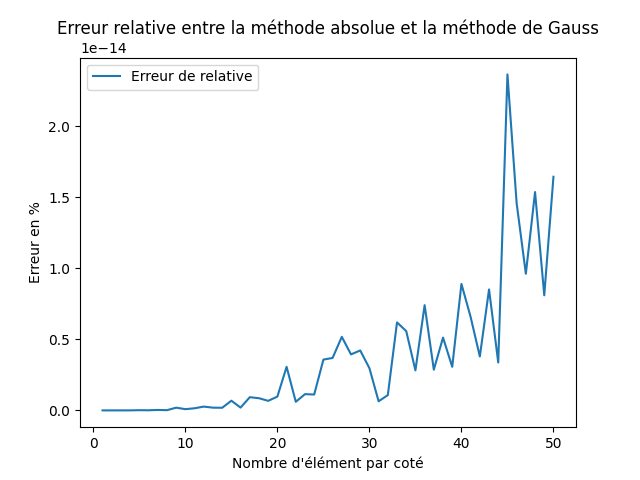
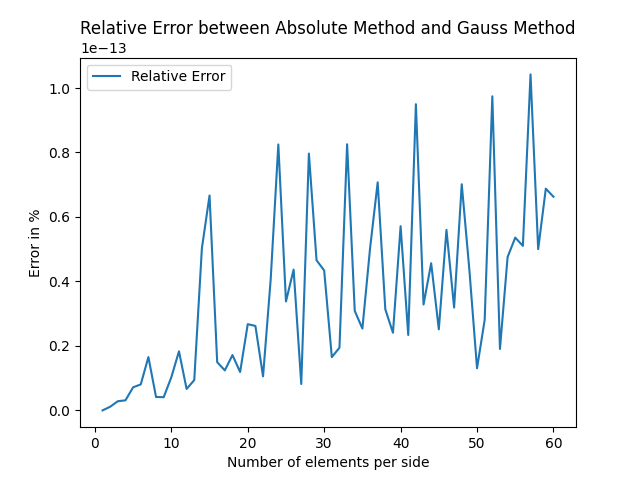
Add files via upload
Some scripts might not be working

diff --git a/BandedComparaison.py b/BandedComparaison.py
@@ -1,0 +1,83 @@
+# all of the imports
+
+import Polygones
+import matplotlib.pyplot as plt
+import numpy as np
+import time
+
+# Define the material properties and the number of elements per side
+E = 200e9
+nu = 0.3
+N = 10
+t = 0.1
+x = []
+time_convert_to_banded = []
+time_convert_to_banded_optimized = []
+time_calculate_bandwidth = []
+time_calculate_bandwidth_optimized = []
+
+for N in range(1, 51):
+    nodes, elements = Polygones.mesh(10, 10, N)  # create the mesh
+    boundary_conditions = Polygones.boundry('left', [0, 0], N)  # create the boundary conditions, the left side is fixed
+
+    F = np.zeros(2 * len(nodes), dtype=float)
+    F = Polygones.edgeForces(F, [1e10, 0], 'right', 10, N)  # apply the force on the right side 1e10 in the x direction
+    K = Polygones.global_stiffness_matrix(nodes, elements, E, nu, t)  # compute the global stiffness matrix
+    K, F = Polygones.apply_boundary_conditions(K, F, boundary_conditions)  # apply the boundary conditions
+
+    # Measure time for calculate_bandwidth
+    start_time = time.time()
+    lower_bandwidth, upper_bandwidth = Polygones.calculate_bandwidth(K)
+    end_time = time.time()
+    time_calculate_bandwidth.append(end_time - start_time)
+
+    # Measure time for calculate_bandwidth_optimized
+    start_time = time.time()
+    lower_bandwidth_opt, upper_bandwidth_opt = Polygones.calculate_bandwidth_optimized(K)
+    end_time = time.time()
+    time_calculate_bandwidth_optimized.append(end_time - start_time)
+
+    # Measure time for convert_to_banded
+    start_time = time.time()
+    K_banded = Polygones.convert_to_banded(K, lower_bandwidth, upper_bandwidth)
+    end_time = time.time()
+    time_convert_to_banded.append(end_time - start_time)
+
+    # Measure time for convert_to_banded_optimized
+    start_time = time.time()
+    K_banded_opt = Polygones.convert_to_banded_optimized(K, lower_bandwidth_opt, upper_bandwidth_opt)
+    end_time = time.time()
+    time_convert_to_banded_optimized.append(end_time - start_time)
+
+    x.append(N)
+    print(N)  # print the number of the iteration
+
+# Create a figure and axis for bandwidth calculation time comparison plot
+fig, ax = plt.subplots()
+ax.plot(x, time_calculate_bandwidth, label='calculate_bandwidth')
+ax.plot(x, time_calculate_bandwidth_optimized, label='calculate_bandwidth_optimized')
+ax.legend()
+ax.set_title('Comparison of bandwidth calculation time')
+ax.set_xlabel("Nombre d'élément par coté")
+ax.set_ylabel('Time (seconds)')
+
+# Save the bandwidth calculation time comparison plot figure
+fig.savefig("bandwidth_calculation_time_comparison.png")
+
+# Show the bandwidth calculation time comparison plot
+plt.show()
+
+# Create a figure and axis for banded conversion time comparison plot
+fig, ax = plt.subplots()
+ax.plot(x, time_convert_to_banded, label='convert_to_banded')
+ax.plot(x, time_convert_to_banded_optimized, label='convert_to_banded_optimized')
+ax.legend()
+ax.set_title('Comparison of banded conversion time')
+ax.set_xlabel("Nombre d'élément par coté")
+ax.set_ylabel('Time (seconds)')
+
+# Save the banded conversion time comparison plot figure
+fig.savefig("banded_conversion_time_comparison.png")
+
+# Show the banded conversion time comparison plot
+plt.show()

diff --git a/TimeComparaison.py b/TimeComparaison.py
@@ -25,7 +25,7 @@ def moy(U,Uprime):#function to compute the error between the two methods
 
 
 
-for N in range(1, 51):
+for N in range(1, 61):
     start_time = time.time()
     nodes, elements = Polygones.mesh(10, 10, N)  # create the mesh
     boundary_conditions = Polygones.boundry('left', [0, 0],N)  # create the boundary conditions, the left side is fixed
@@ -46,7 +46,7 @@ for N in range(1, 51):
 
     # Measure time for scipy.linalg.solve_banded
     start_time = time.time()
-    lower_bandwidth, upper_bandwidth = Polygones.calculate_bandwith(K)  # calculate the bandwidth
+    lower_bandwidth, upper_bandwidth = Polygones.calculate_bandwidth_optimized(K)  # calculate the bandwidth
     K_banded = Polygones.convert_to_banded_optimized(K, lower_bandwidth, upper_bandwidth)
     U = scipy.linalg.solve_banded((lower_bandwidth, upper_bandwidth), K_banded, F)
     end_time = time.time()
@@ -59,11 +59,11 @@ for N in range(1, 51):
 
 # Create a figure and axis for error plot
 fig, ax = plt.subplots()
-ax.plot(x, ec, label='Erreur de relative')
+ax.plot(x, ec, label='Relative Error')
 ax.legend()
-ax.set_title('Erreur relative entre la méthode absolue et la méthode de Gauss')
-ax.set_xlabel("Nombre d'élément par coté")
-ax.set_ylabel('Erreur en %')
+ax.set_title('Relative Error between Absolute Method and Gauss Method')
+ax.set_xlabel("Number of elements per side")
+ax.set_ylabel('Error in %')
 
 # Save the error plot figure
 fig.savefig("convergence.png")
@@ -78,10 +78,11 @@ ax.plot(x, time_scipy_solve_banded, label='scipy.linalg.solve_banded')
 ax.plot(x, time_compute_K, label='compute K')
 ax.legend()
 ax.set_title('Comparison of computation time')
-ax.set_xlabel("Nombre d'élément par coté")
+ax.set_xlabel("Number of elements per side")
 ax.set_ylabel('Time (seconds)')
 
-#Save the time comparison plot figure
+# Save the time comparison plot figure
 fig.savefig("time_comparison.png")
 
 # Show the time comparison plot
+plt.show()

diff --git a/main.py b/main.py
@@ -5,22 +5,23 @@ import scipy.linalg
 import pandas as pd
 E = 200e9
 nu = 0.3
-N = 30
+N = 5
 t = 0.01
 l = 10
 nodes,elements = Polygones.mesh(l,l,N)
-
+Polygones.showMesh2D(elements,nodes)
 bc1 = Polygones.boundry('left',[0,0],N)
 bc2 = Polygones.boundry('right',[-1,0],N)
-#boundary_conditions = Polygones.merge_boudary_conditions(bc1,bc2)
 boundary_conditions = bc1
+boundary_conditions = Polygones.merge_boudary_conditions(bc1,bc2)
+
 F = np.zeros(2 * len(nodes), dtype=float) 
 
 
-F= Polygones.edgeForces(F,[1e7,0],'right',l,N)
+#F= Polygones.edgeForces(F,[1e7,0],'right',l,N)
 K = Polygones.global_stiffness_matrix(nodes,elements,E,nu,t)
 K,F = Polygones.apply_boundary_conditions(K,F,boundary_conditions)
-lower_bandwidth,upper_bandwidth  = Polygones.test_bandiwth(K)
+lower_bandwidth,upper_bandwidth  = Polygones.calculate_bandwidth_optimized(K)
 K_banded = Polygones.convert_to_banded(K, lower_bandwidth, upper_bandwidth)
 Uprime = np.linalg.solve(K, F)
 
@@ -30,6 +31,7 @@ df.to_csv('K_banded.csv',index=False)
 df = pd.DataFrame(K)
 df.to_csv('K.csv',index=False)'
 '''
+
 print(upper_bandwidth)
 deformed_nodes = Polygones.displacement(nodes ,Uprime)  
 Polygones.showDeform2D(elements,nodes,deformed_nodes)

diff --git a/Polygones.py b/Polygones.py
@@ -213,7 +213,16 @@ def convert_to_banded(K, lower_bandwidth, upper_bandwidth):
             ab[upper_bandwidth + i - j, j] = K[i, j]
     return ab
 
-def calculate_bandwith(K):
+def convert_to_banded_optimized(K,lower_bandwidth, upper_bandwidth):
+    n = K.shape[0]
+    ab = np.zeros((lower_bandwidth + upper_bandwidth + 1, n))
+    for i in range(n):
+        start = max(0, i - lower_bandwidth)
+        end = min(n, i + upper_bandwidth + 1)
+        ab[upper_bandwidth + i - np.arange(start, end), np.arange(start, end)] = K[i, start:end]
+    return ab
+
+def calculate_bandwidth(K):
     n = K.shape[0]
     lower_bandwidth = 0
     upper_bandwidth = 0
@@ -278,7 +287,7 @@ def edgeForces(F, force, dir, l,N,M=0):# function to apply the forces along the 
             F[2 * (i + n * (n - 1)) + 1] += force[1] * l / m
     return F
 
-def test_bandiwth(K):
+def calculate_bandwidth_optimized(K):
     n = K.shape[0]
     bandiwth = n
     nb = 0
